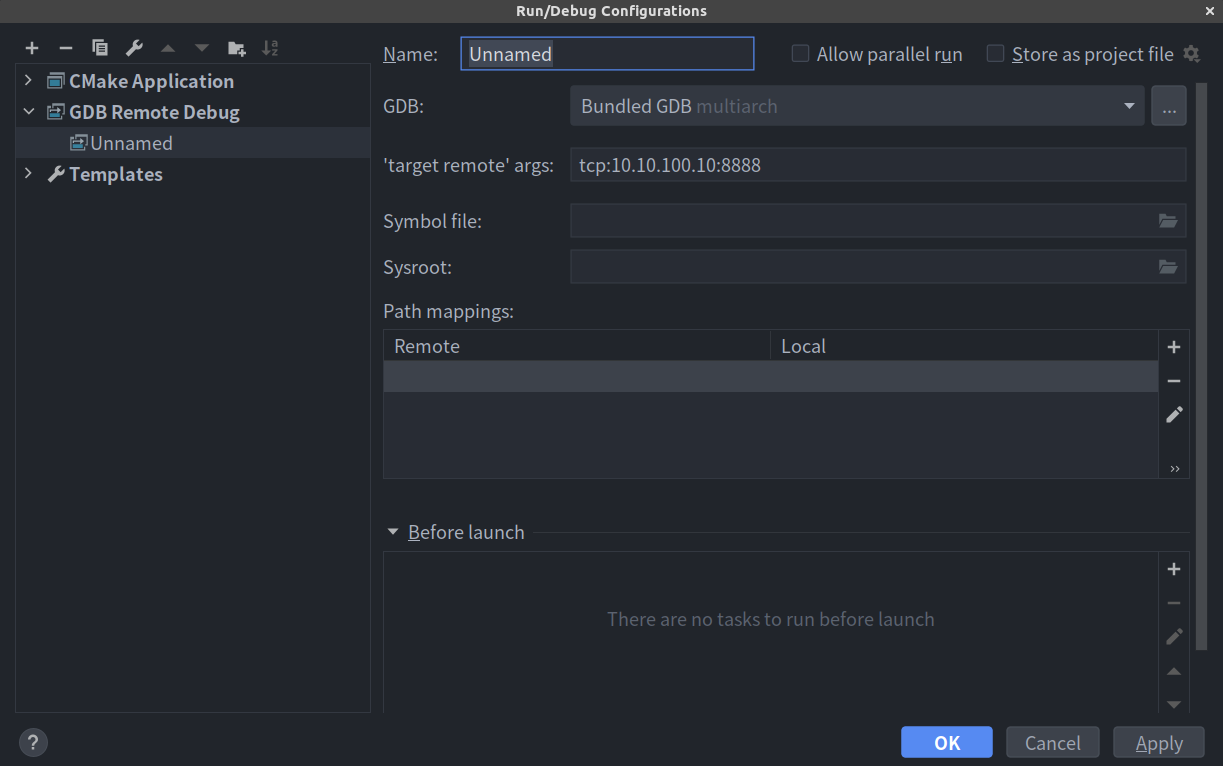
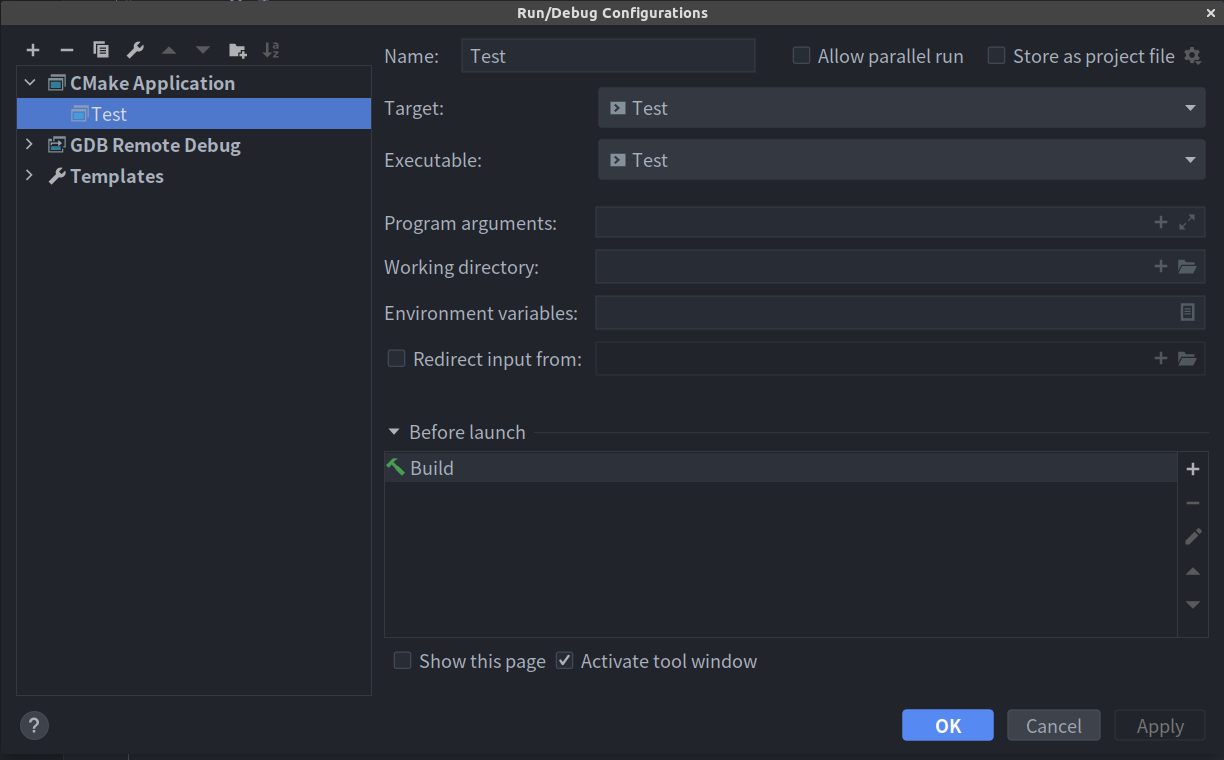
Update ide_config
Change tutorial to full remote mode

diff --git a/en/dev_guide/ide_config_en.md b/en/dev_guide/ide_config_en.md
@@ -1,34 +1,18 @@
 # IDE configuration
 
-## Environment construction
-
-1. Open a terminal and execute the following commands:
-
-```bash
-sudo apt-get update
-sudo apt-get install build-essential
-sudo apt-get install cmake
-sudo apt-get install bison
-sudo apt-get install library*
-sudo apt-get install libncurses5-dev
-sudo apt-get install g++
-sudo apt-get install kdelibs5-dev
-sudo apt-get install make
-```
-
 ## Install CLion
 
 1. [Download the tarball](https://www.jetbrains.com/clion/download/) **.tar.gz** .
 
-2. Unpack the downloaded **CLion-*.tar.gz** archive. The recommended extract directory is /opt: 
+2. Unpack the downloaded **CLion-*.tar.gz** archive. The recommended extract directory is /opt:
 
    ```bash
    sudo tar xvzf CLion-*.tar.gz -C /opt/
    ```
 
-   > [!Warning]
+   > ### warning
    >
-   > Do not extract the tarball over an existing installation to avoid conflicts. Always extract to a clean directory.
+   >  Do not extract the tarball over an existing installation to avoid conflicts.  Always  extract to a clean directory.                         
 
 3. Execute the **CLion.sh** from **bin** subdirectory to run CLion:
 
@@ -44,9 +28,9 @@ sudo apt-get install make
 
 1. Create a C++ Executable project. You can set the location and language standard of the new project.
 
-    ![Image](../../img/ide_config/new_project.png)
+   ![Image](../../img/ide_config/new_project.png)
 
-2. Press **File->Settings->Build,Execution,Deployment->Toolchains** and fill the corresponding locations.
+2. Go to **File->Settings->Build,Execution,Deployment->Toolchains** and fill the corresponding locations.
 
    ![Image](../../img/ide_config/toolchain.png)
 
@@ -54,78 +38,80 @@ sudo apt-get install make
    >
    > No red error indicates successful configuration.
 
-3. Press **Run->Edit Configurations**, click the **＋** button and create a **CMake Application**.
+3. Go to **Run->Edit Configurations**, click the **＋** button and create a **CMake Application**.
 
-    ![Image](../../img/ide_config/debug_config.png)
+   ![Image](../../img/ide_config/debug_config.png)
 
-4. Press **Run->Run 'Debug'** to run the program. If the output is the same as below, the configuration is successful.
+4. Go to **Run->Run 'Debug'** to run the program. If the output is the same as below, the configuration is successful.
 
-    ![Image](../../img/ide_config/output.png)
+   ![Image](../../img/ide_config/output.png)
 
 
-## Remote compilation
+## Remote development
 
-Suppose the name of the program you want to debug is 'Test', the server IP is 10.10.100.10, and the external service port is 8888. 
+### Create a toolchain with remote credentials
 
-### Server configuration
+1. Go to **File|Settings| Build, Execution, Deployment | Toolchains** and select **Remote Host** from the list of toolchains or click![plus icon](https://www.jetbrains.com/help/img/idea/2020.2/artwork.studio.icons.common.add.svg)and select **Remote Host** from the drop-down menu to create a new toolchain.
 
-1. Install gdbserver.
+2. Click ![artwork.studio.icons.logcat.toolbar.settings.svg](https://www.jetbrains.com/help/img/idea/2020.2/artwork.studio.icons.logcat.toolbar.settings.svg) next to the **Credentials** field. In the dialog that opens, create an SSH configuration and  provide the credentials for accessing you remote machine. Existing SSH configurations are available from the drop-down list.
 
-   ```bash
-   sudo apt-get install gdbserver
-   ```
+   ![Image](https://resources.jetbrains.com/help/img/idea/2020.2/cl_remote_toolchaincredentials.png)
 
-2. Run gdbserver for remote compilation. 
-
-   ```bash
-   # gdbserver IP:PORT PROGRAM_NAME
-   gdbserver 10.10.100.10:8888 /usr/document/Test/cmake-build-debug/test
-   ```
-
-   > [!Note]
+   > [!Tip]
    >
-   > Remote debugging depends on GDBSERVER. The program started by GDBSERVER will wait for the connection of remote debugging first, and then start the process after the connection is successful.
-   
-   If the results are similar to the following, the gdbserver runs successfully.
-   
-   ![Image](../../img/ide_config/gdbserver.png)
+   > You can also manage SSH configurations in Settings / Preferences | Tools | SSH Configurations.
 
-### Local configuration
+3. After establishing the connection, CLion attempts to detect the tools in default remote locations **/usr/bin/cmake** and **/usr/bin/gdb** (or using the full paths, if you have provided manually). When the  checks finish successfully, the toolchain is ready for use: 
 
-#### Deployment configuration
+   ![Image](https://resources.jetbrains.com/help/img/idea/2020.2/cl_remote_toolchainsuccess.png)
 
-	Press **Tools->Deployment->Configuration**. 
+4. You can make the newly created toolchain the **default** one (for this, move it to the top of the toolchains list by clicking ![move up](https://www.jetbrains.com/help/img/idea/2020.2/icons.actions.moveUp.svg)![move down](https://www.jetbrains.com/help/img/idea/2020.2/icons.actions.moveDown.svg)). When set as default, the remote toolchain is used for all the projects you create and open in CLion.               
 
-1. Click the **＋** button and choose **SFTP** type to add a web server.
-
-    ![Image](../../img/ide_config/deployment.png)
-
-2. Click `...` and add a **SSH configuration**. Fill the server's **Host, Port, User name** and  **Password**. Press **Test Connection** to confirm the connection.
-
-    ![Image](../../img/ide_config/ssh_config.png)
-
-3. Switch to **Mappings**, fill the **Local path**(local code path) and **Deployment path**(remote code path).
-
-    ![Image](../../img/ide_config/mapping.png)
+   Note that if you set the remote toolchain as default, the **default CMake profile** will connect to it automatically, so you do not need  to configure a separate CMake profile for it.
 
 
-#### Code synchronized
+### Create the corresponding CMake profile
 
-1. Press **Tools->Deployment->Upload to Server/Download from Server**.
+> [!Note]
+>
+> Skip this procedure if your remote toolchain is [set as default](https://www.jetbrains.com/help/clion/remote-projects-support.html#RemoteAsDefault).         
 
-2. Enable **Tools->Deployment->Automatic Upload** to ensure that code is automatically synchronized to the server.
++ Go to **Settings / Preferences | Build, Execution, Deployment | CMake**, click ![plus icon](https://www.jetbrains.com/help/img/idea/2020.2/artwork.studio.icons.common.add.svg)to create a new [CMake profile](https://www.jetbrains.com/help/clion/cmake-profile.html), and connect it to your remote toolchain using the **Toolchain** field: 
 
-    ![Image](../../img/ide_config/auto_upload.png)
+  ![Image](https://resources.jetbrains.com/help/img/idea/2020.2/cl_remote_cmakeprofile.png)
 
-#### Debug configuration
+### Check and adjust the deployment configuration
 
-1. Press **Run->Edit Configuration**.
++ When you create a connection entity for the remote toolchain, CLion puts it in the list of [server access configurations](https://www.jetbrains.com/help/clion/settings-deployment.html) in **Settings / Preferences | Build, Execution, Deployment | Deployment**. 
 
-2. Click the **＋** button and create a **GDB Remote Debug**.
+  CLion automatically configures the paths for your project code synchronization. Use the **Mappings** tab to change the default mappings (for example, to set a particular  remote directory for the copied sources instead of the default **tmp** folder):         
 
-3. Setting **'target remote' args** and **Path mappings**.
+  ![path mapping for file synchronization](https://www.jetbrains.com/help/img/idea/2020.2/cl_remote_pathmappings.png)
 
-    ![Image](../../img/ide_config/debug_config_remote.png)
++  You can monitor the synchronization process in the **File Transfer** tool window (**View | Tool Windows | File Transfer**):             
 
-4. Press **Run->Run 'Debug'** to run the program remotely.
+  ![file transfer tool window](https://www.jetbrains.com/help/img/idea/2020.2/cl_remote_filetransfer.png)
 
+  
+
+### Resync header search paths
+
++ To resolve your code correctly, CLion synchronizes **header search paths** with all the content from the remote machine to the local client. *For example*, even though standard library headers are taken from the target, you can navigate to them as if you were working locally in the CLion editor.             
+
+  However, header search paths synchronization can be  time-consuming, so CLion performs it automatically only upon the initial file transfer. After that, it is not triggered by CMake reloads. So  every time you switch the compiler or make changes in your project  dependencies, make sure to update header search paths manually by  calling **Tools | Resync with Remote Hosts**.             
+
+  You can also switch to automatic synchronization: set the *clion.remote.resync.system.cache* key in the Registry (go to **Help | Find Action** or press `Ctrl+Shift+A`, type *Registry*, and search for the key by name).
+
+### Build, run, debug
+
+Now that you have a remote toolchain and the corresponding CMake profile configured, you can build, run, and debug your application and tests in the completely remote way by **selecting the proper CMake profile** in the Run/Debug configuration switcher:             
+
+![cmake profile for remote](https://www.jetbrains.com/help/img/idea/2020.2/cl_remote_profile.png)
+
+
+
+Also, you can use the [remote SSH terminal](https://www.jetbrains.com/help/clion/running-ssh-terminal.html) and run [remote external tools](https://www.jetbrains.com/help/clion/settings-tools-remote-ssh-external-tools.html) as a Before launch step of your Run/Debug configuration.         
+
+Below you can find a demo showing how the application output  changes depending on the OS that it runs on. Having macOS as a  local system, we connect remotely to the Ubuntu target and check the OS  name. In this example, code highlighting depends on the OS  identifier, so when we switch the CMake profile or [resolve context](https://www.jetbrains.com/help/clion/switching-resolve-context.html), CLion highlights the corresponding code branch:
+
+![image](../../img/ide_config/index.gif)

diff --git a/dev_guide/ide_config.md b/dev_guide/ide_config.md
@@ -1,21 +1,5 @@
 # IDE 配置
 
-## 环境配置
-
-1. 打开终端并执行下列命令:
-
-```bash
-sudo apt-get update
-sudo apt-get install build-essential
-sudo apt-get install cmake
-sudo apt-get install bison
-sudo apt-get install library*
-sudo apt-get install libncurses5-dev
-sudo apt-get install g++
-sudo apt-get install kdelibs5-dev
-sudo apt-get install make
-```
-
 ## 安装 CLion
 
 1. [下载安装包](https://www.jetbrains.com/clion/download/) **.tar.gz** 。
@@ -46,7 +30,7 @@ sudo apt-get install make
 
     ![Image](../img/ide_config/new_project.png)
 
-2. 点击 **File->Settings->Build,Execution,Deployment->Toolchains** 并填写相应的文件路径。
+2. 点击 **File | Settings | Build,Execution,Deployment | Toolchains** 并填写相应的文件路径。
 
    ![Image](../img/ide_config/toolchain.png)
 
@@ -54,77 +38,72 @@ sudo apt-get install make
    >
    > 没有红色的警告信息则说明配置成功。
 
-3. 点击 **Run->Edit Configurations**, 点击 **＋** 按钮并创建一个**CMake Application**。
+3. 点击 **Run | Edit Configurations**, 点击 **＋** 按钮并创建一个**CMake Application**。
 
     ![Image](../img/ide_config/debug_config.png)
 
-4. 点击 **Run->Run 'Debug'** 以运行项目。如果输出结果与下图相同，则说明编译成功。
+4. 点击 **Run | Run 'Debug'** 以运行项目。如果输出结果与下图相同，则说明编译成功。
 
     ![Image](../img/ide_config/output.png)
 
+## 远程开发
 
-## 远程编译
+### 使用远程凭据创建工具链
 
-假设要调试的程序名叫”Test“，服务器IP为10.10.100.10，外部服务端口为8888。
+1. 转到 **File | Settings | Build, Execution, Deployment | Toolchains** 并从工具链列表中选择 **Remote Host** ，或者单击![plus icon](https://www.jetbrains.com/help/img/idea/2020.2/artwork.studio.icons.common.add.svg)并从下拉菜单中选中 **Remote Host** ，以创建新的工具链。
 
-### 服务端配置
+2. 单击在 **Credentials** 右侧的 ![artwork.studio.icons.logcat.toolbar.settings.svg](https://www.jetbrains.com/help/img/idea/2020.2/artwork.studio.icons.logcat.toolbar.settings.svg) 标志。在打开的对话框中，创建 SSH 配置并提供用于访问远程计算机的凭据。现有 SSH 配置可从下拉列表中获得。
 
-1. 下载 gdbserver。
+    ![Image](https://resources.jetbrains.com/help/img/idea/2020.2/cl_remote_toolchaincredentials.png)
 
-   ```bash
-   sudo apt-get install gdbserver
-   ```
+    > [!Tip]
+    >
+    > 你还可以在 File | Settings / Preferences | Tools | SSH Configurations 中管理SSH配置。
 
-2. 运行 gdbserver 以用于远程编译。
+3. 建立连接后，CLion 将尝试检测远程默认位置**/usr/bin/cmake** 和 **/usr/bin/gdb**中的工具（如果您手动提供了完整路径，则会在您给出的路径中检测工具）。检查成功完成后，工具链就可以使用了：![Image](https://resources.jetbrains.com/help/img/idea/2020.2/cl_remote_toolchainsuccess.png)
 
-   ```bash
-   # gdbserver IP:PORT PROGRAM_NAME
-   gdbserver 10.10.100.10:8888 /usr/Test/test
-   ```
+4. 您可以将新创建的工具链设置为**默认工具链**（可通过单击 ![move up](https://www.jetbrains.com/help/img/idea/2020.2/icons.actions.moveUp.svg)![move down](https://www.jetbrains.com/help/img/idea/2020.2/icons.actions.moveDown.svg)将远程工具链移动到列表顶部）。当远程工具链设置为默认工具链时，它将用于在 CLion 中创建和打开的所有项目。
 
-   > [!Note]
-   >
-   > 远程调试依赖于GDBSERVER。通过GDBSERVER启动的程序将先等待远程调试的连接，连接成功后再启动进程。
-   
-   如果结果与下面相似，则说明gdbserver运行成功。
-   
-   ![Image](../img/ide_config/gdbserver.png)
+    请注意，如果将远程工具链设置为默认工具链，则**默认的CMake配置文件**将自动连接到它，因此您不需要为它配置单独的 CMake 配置文件。 
 
-### 本地配置
+### 创建相应的 CMake 配置文件
 
-#### Deployment配置
+> [!Note]
+>
+> 如果您将远程工具链设置为默认工具链 ，请跳过此步骤。 
 
-	点击 **Tools->Deployment->Configuration**。
++ 转到 **File | Settings / Preferences | Build, Execution, Deployment | CMake**，单击 ![plus icon](https://www.jetbrains.com/help/img/idea/2020.2/artwork.studio.icons.common.add.svg)以创建新的CMake配置文件，并使用 **Toolchain** 将其链接到远程工具链：
 
-1. 点击 **＋** 按钮并选择以 **SFTP** 协议添加web服务器。
+    ![Image](https://resources.jetbrains.com/help/img/idea/2020.2/cl_remote_cmakeprofile.png)
 
-    ![Image](../img/ide_config/deployment.png)
+### 检查和调整部署配置
 
-2. 点击`...`并新建一个 **SSH configuration**。填写服务器的**Host, Port, User name** 和 **Password**。点击 **Test Connection** 以确认连接状态。
++  转到**File | Settings / Preferences | Build, Execution, Deployment | Deployment**。当您为远程工具链创建实际连接时，CLion会将连接参数放入在该对话框下的[访问配置](https://www.jetbrains.com/help/clion/settings-deployment.html)列表中。
 
-    ![Image](../img/ide_config/ssh_config.png)
+    使用 **Mappings** 选项卡更改代码自动同步的默认映射路径（例如，为复制的源代码设置一个特定的远程目录，而不是默认 **tmp** 文件夹）：
 
-3. 切换到 **Mappings**,设置 **Local path**（本地代码根目录）和 **Deployment path**（远程代码根目录）。
+    ![path mapping for file synchronization](https://www.jetbrains.com/help/img/idea/2020.2/cl_remote_pathmappings.png)
 
-    ![Image](../img/ide_config/mapping.png)
++ 您可以在文件传输工具窗口中观察代码的**同步过程**（**View | Tool Windows | File Transfer**）：       
 
+    ![file transfer tool window](https://www.jetbrains.com/help/img/idea/2020.2/cl_remote_filetransfer.png)
 
-#### 同步代码
+### 重新同步头文件搜索路径
 
-1. 点击 **Tools->Deployment->Upload to Server/Download from Server**。
++ 为了正确解析代码，CLion 将**头文件搜索路径**与远程计算机的所有内容同步到本地客户端。*例如，*即使标准库标头文件取自目标，您也可以导航到它们，就像在 CLion 编辑器中本地工作一样。
 
-2. 勾选 **Tools->Deployment->Automatic Upload** 以确保代码能够自动同步。
+    但是，头文件搜索路径的同步可能非常耗时，因此 CLion 仅在初始文件传输时自动执行。之后，它不再由 CMake 重新加载触发。因此，每次切换编译器或在项目依赖项中进行更改时，请确保通过手动调用**Tools | Resync with Remote Hosts** 来更新头文件搜索路径。
 
-    ![Image](../img/ide_config/auto_upload.png)
+    您也可以切换到自动同步：在注册表中设置*clion.remote.resync.system.cache*的值（转到**Help | Find Action**或按`Ctrl+Shift+A`，输入*Registry* 然后按名称搜索）。
 
-#### Debug配置
+### 生成，运行，调试
 
-1. 点击 **Run->Edit Configuration**。
+现在，您已经配置了远程工具链和相应的 CMake 配置文件，您可以通过在**Run/Debug** 配置切换器中选择正确的 CMake 配置文件，以完全远程的方式生成、运行和调试应用程序和测试：
 
-2. 点击 **＋** 按钮并创建一个 **GDB Remote Debug**。
+![cmake profile for remote](https://www.jetbrains.com/help/img/idea/2020.2/cl_remote_profile.png)
 
-3. 设置 **'target remote' args** 和 **Path mappings**。
+此外，您可以使用[远程SSH 终端](https://www.jetbrains.com/help/clion/running-ssh-terminal.html)和[远程外部工具](https://www.jetbrains.com/help/clion/settings-tools-remote-ssh-external-tools.html)来完成运行/调试配置的**启动步骤**。       
 
-    ![Image](../img/ide_config/debug_config_remote.png)
+下面提供一个演示，显示应用程序输出如何根据它运行的操作系统而变化。演示将 macOS 作为本地系统，远程连接到 Ubuntu 目标并检查 OS 名称。在此示例中，代码的输出结果取决于操作系统标识符，因此当我们切换 CMake 配置文件或[解析上下文时](https://www.jetbrains.com/help/clion/switching-resolve-context.html)，CLion 会突出显示相应的代码分支：
 
-4. 点击 **Run->Run 'Debug'** 以远程运行程序。
+![image](A:/robomaster/RM-Software-Tutorial/img/ide_config/index.gif)
